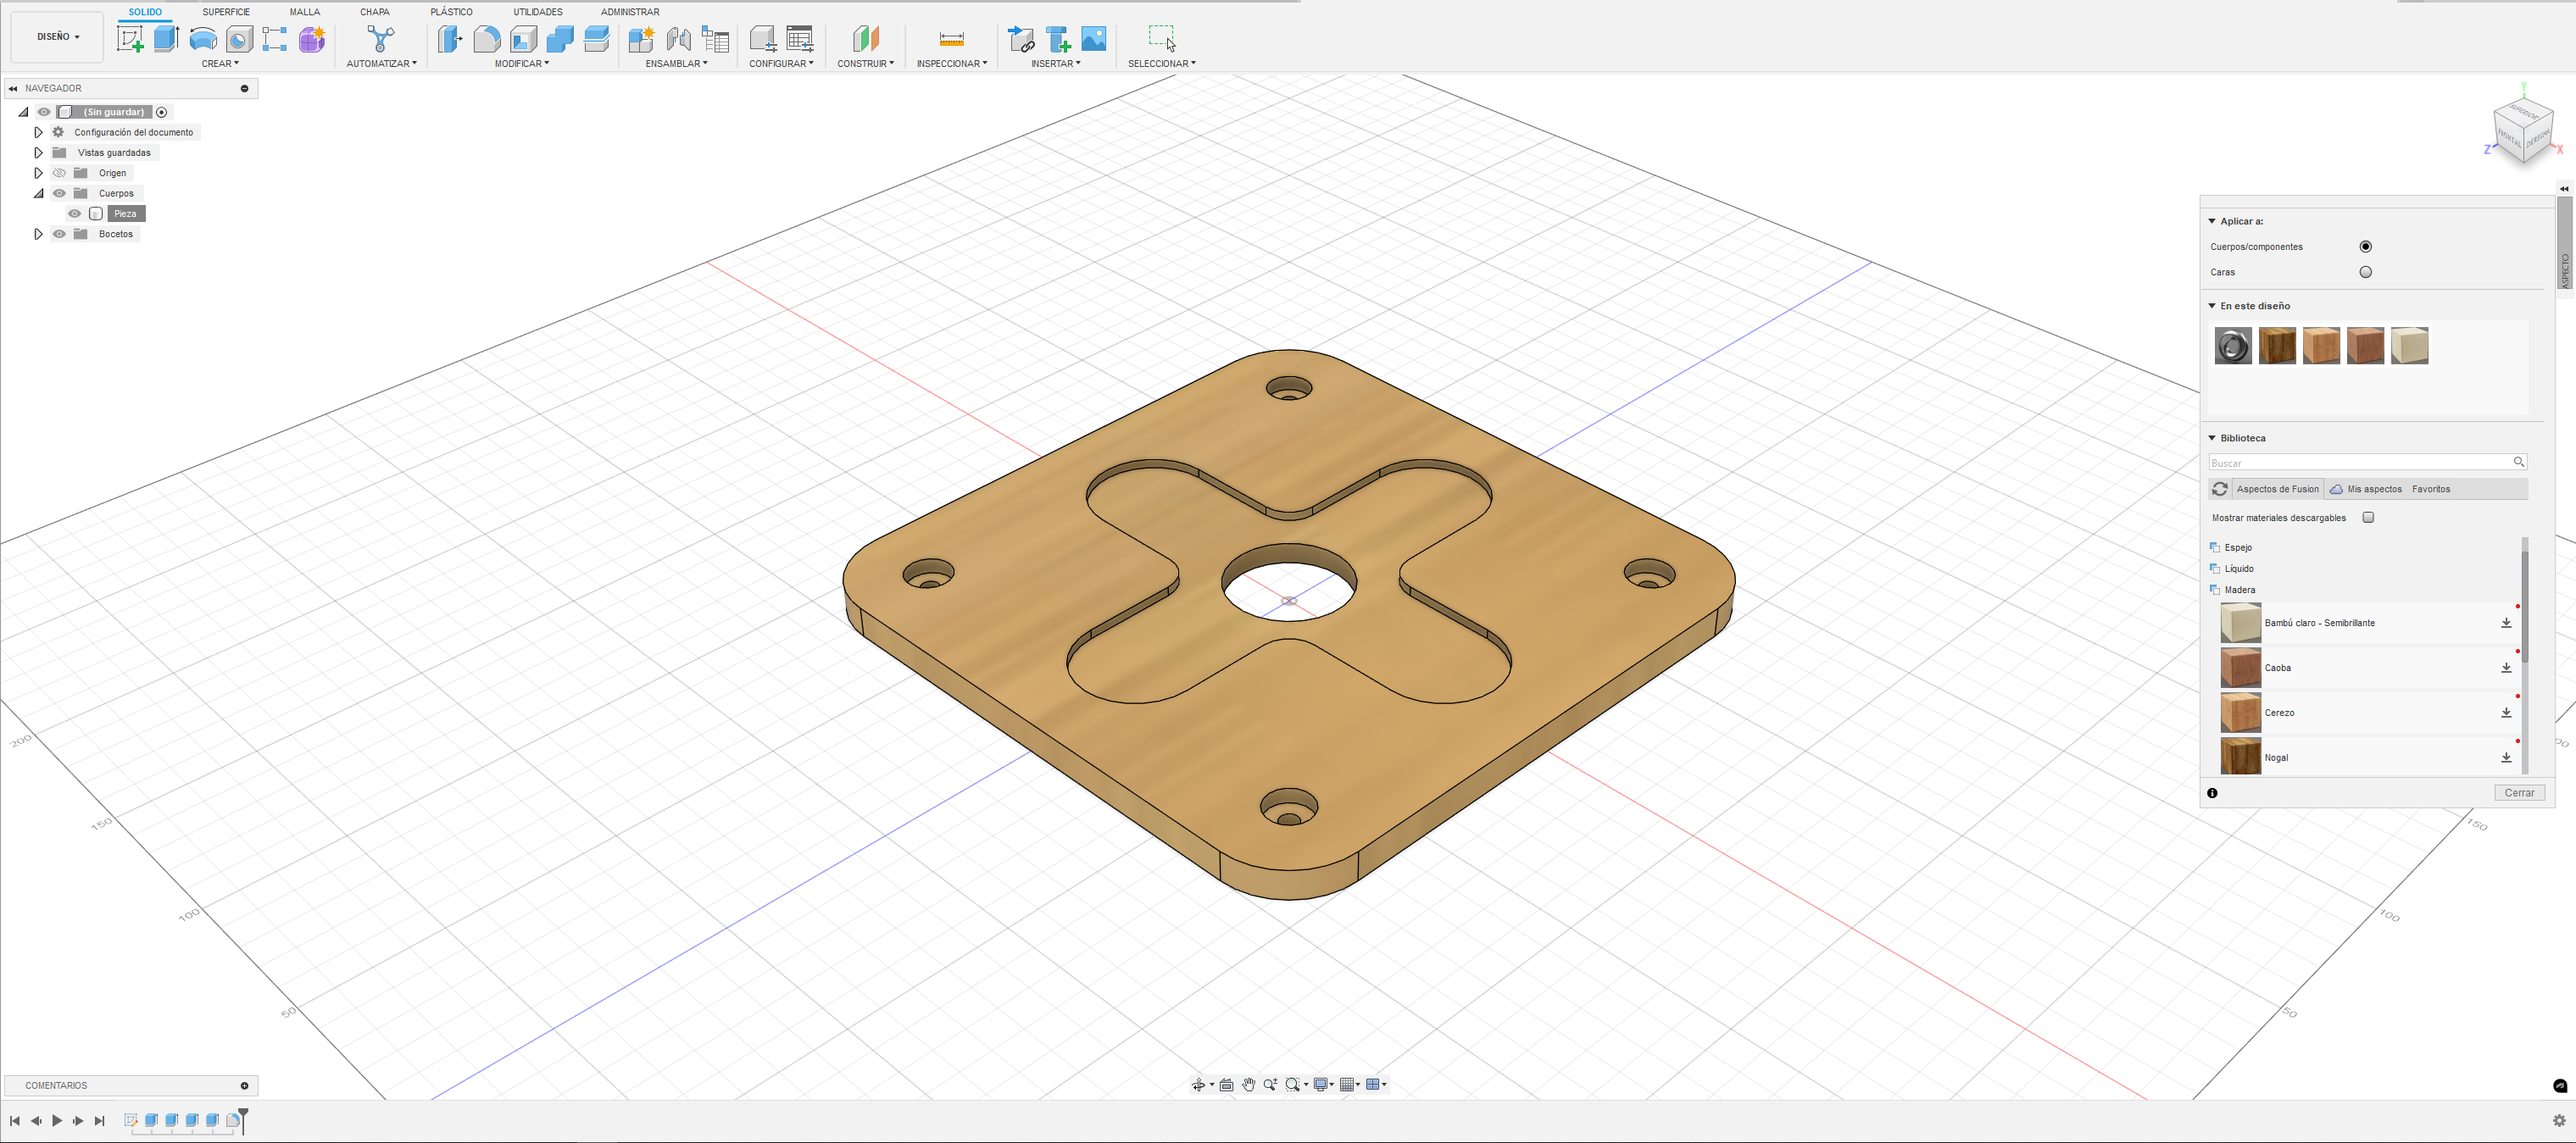
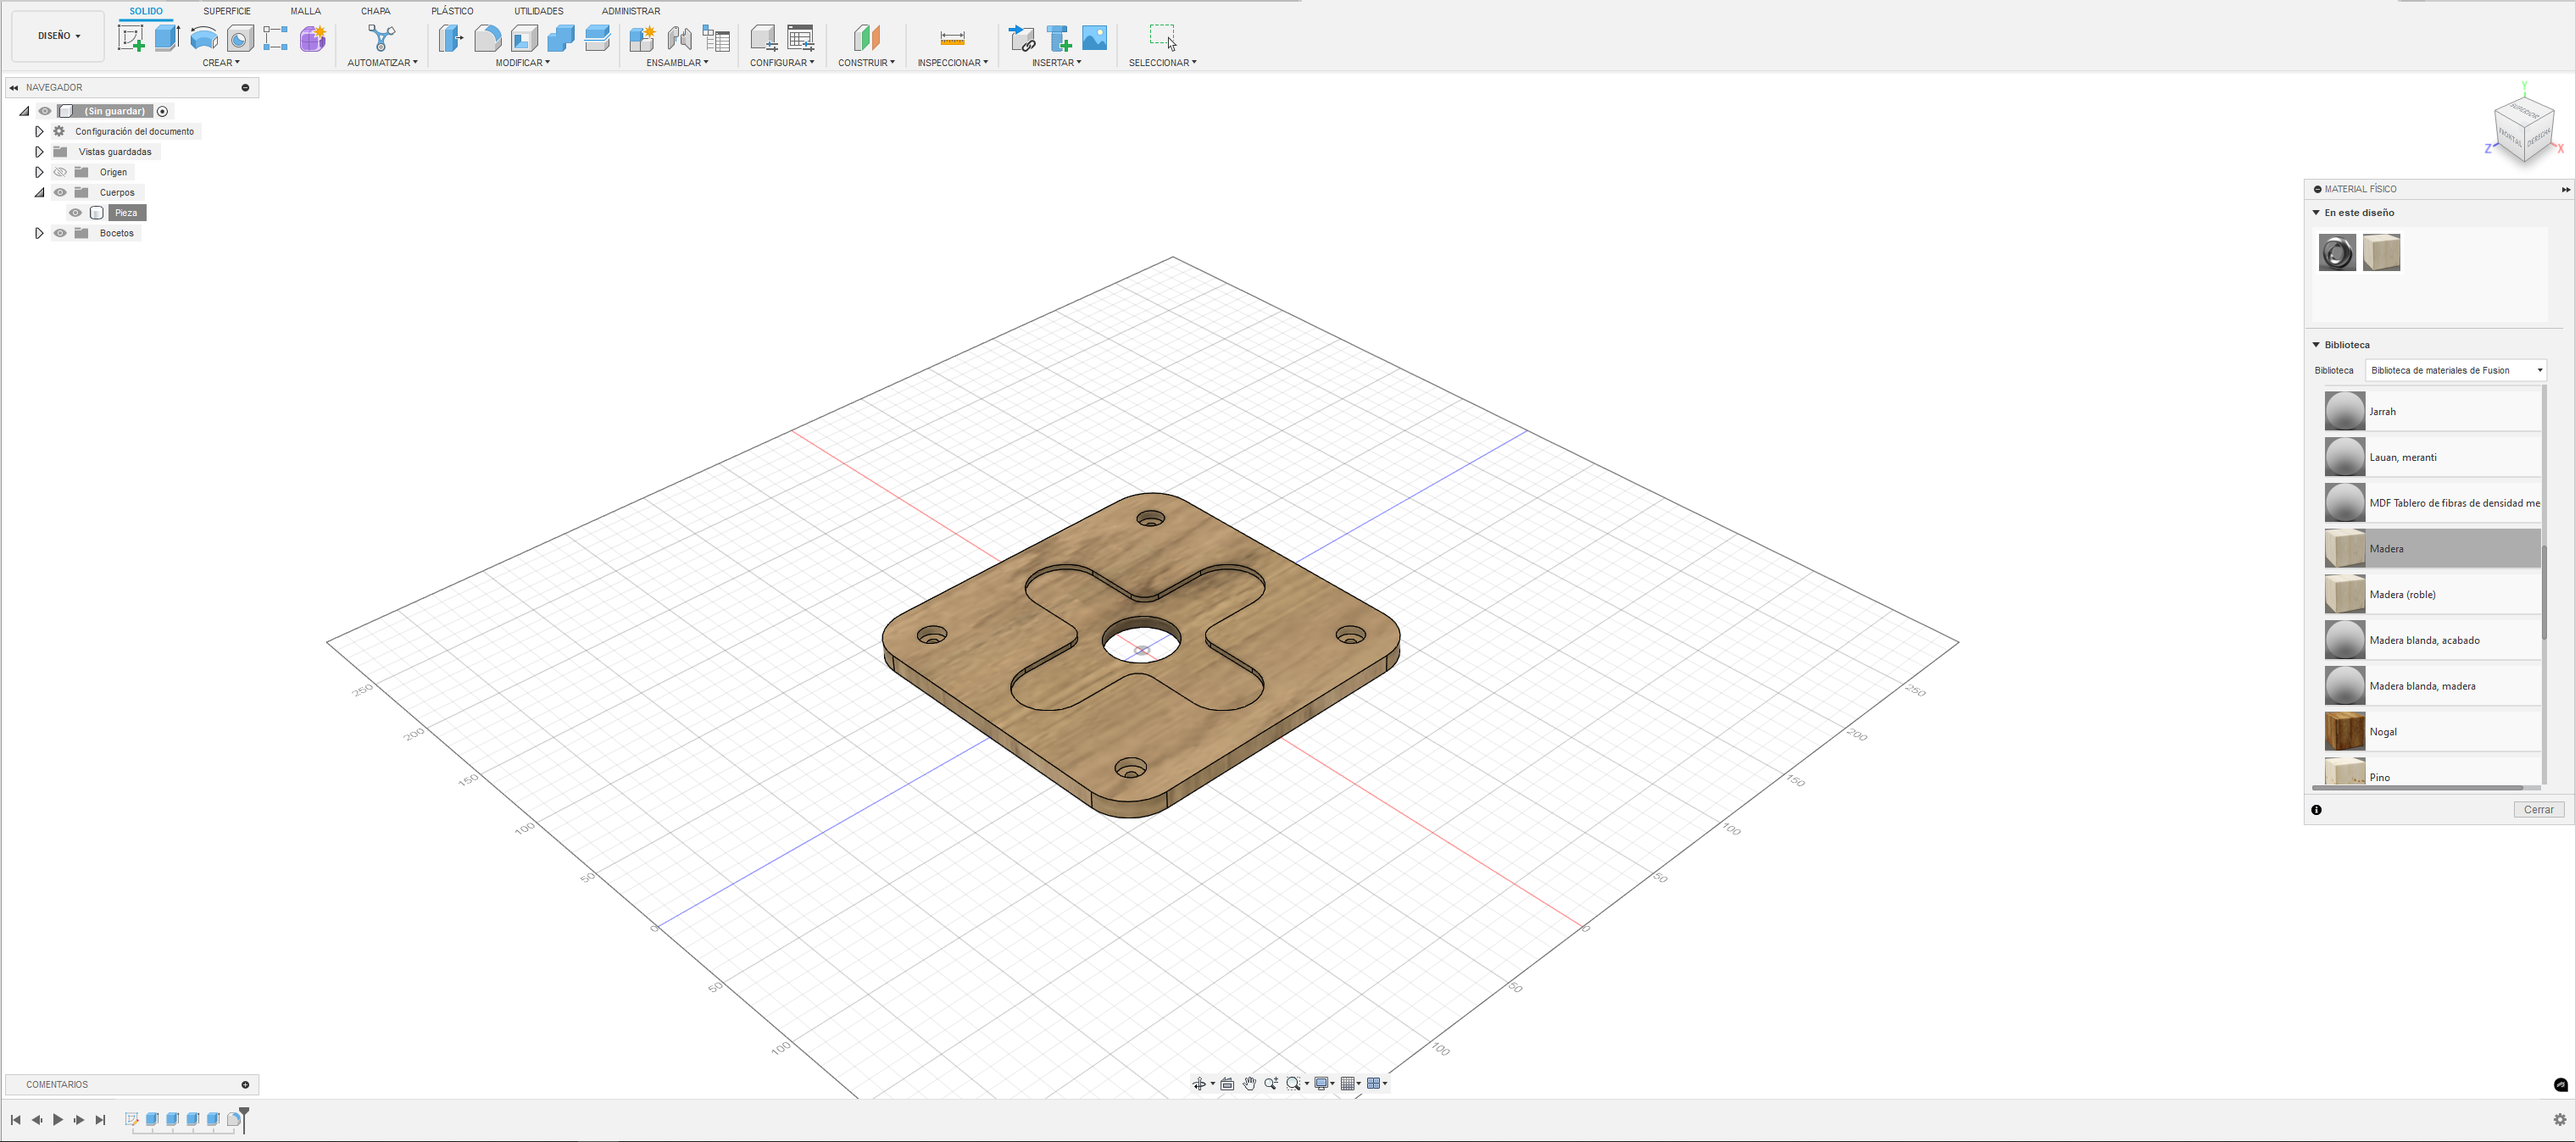
adds content to mt08

diff --git a/docs/tecnicos/mt08.md b/docs/tecnicos/mt08.md
@@ -42,20 +42,20 @@ Primeramente, descargué el archivo del link brindado, abriendolo con Fusion 360
   ![Imagen de Proyecto 1](../images/MT08/1.png){ width="600"}
 </figure>
 
-Aplicamos el material de la pieza a utilizar, en este caso Madera (Caoba):
+Aplicamos el material de la pieza a utilizar, en este caso Madera:
 
 <figure markdown="span">
   ![Imagen de Proyecto 2](../images/MT08/2.png){ width="600"}
 </figure>
 
-Con el archivo exportado en .stl, importé el archivo en ideaMaker:
+Con el material a utilizar puesto, paso al post procesador, una vez descargado, configuro la máquina y el postprocesador asociado a ella:
 
 <figure markdown="span">
-  ![Imagen de Proyecto 3](../images/MT05/4.png){ width="600"}
+  ![Imagen de Proyecto 3](../images/MT08/3.png){ width="600"}
 </figure>
 
 <figure markdown="span">
-  ![Imagen de Proyecto 3.1](../images/MT05/5.png){ width="600"}
+  ![Imagen de Proyecto 3.1](../images/MT08/4.png){ width="600"}
 </figure>
 
 En este punto realicé un escalado al 150% de la pieza como solicitaba el paso a paso:
